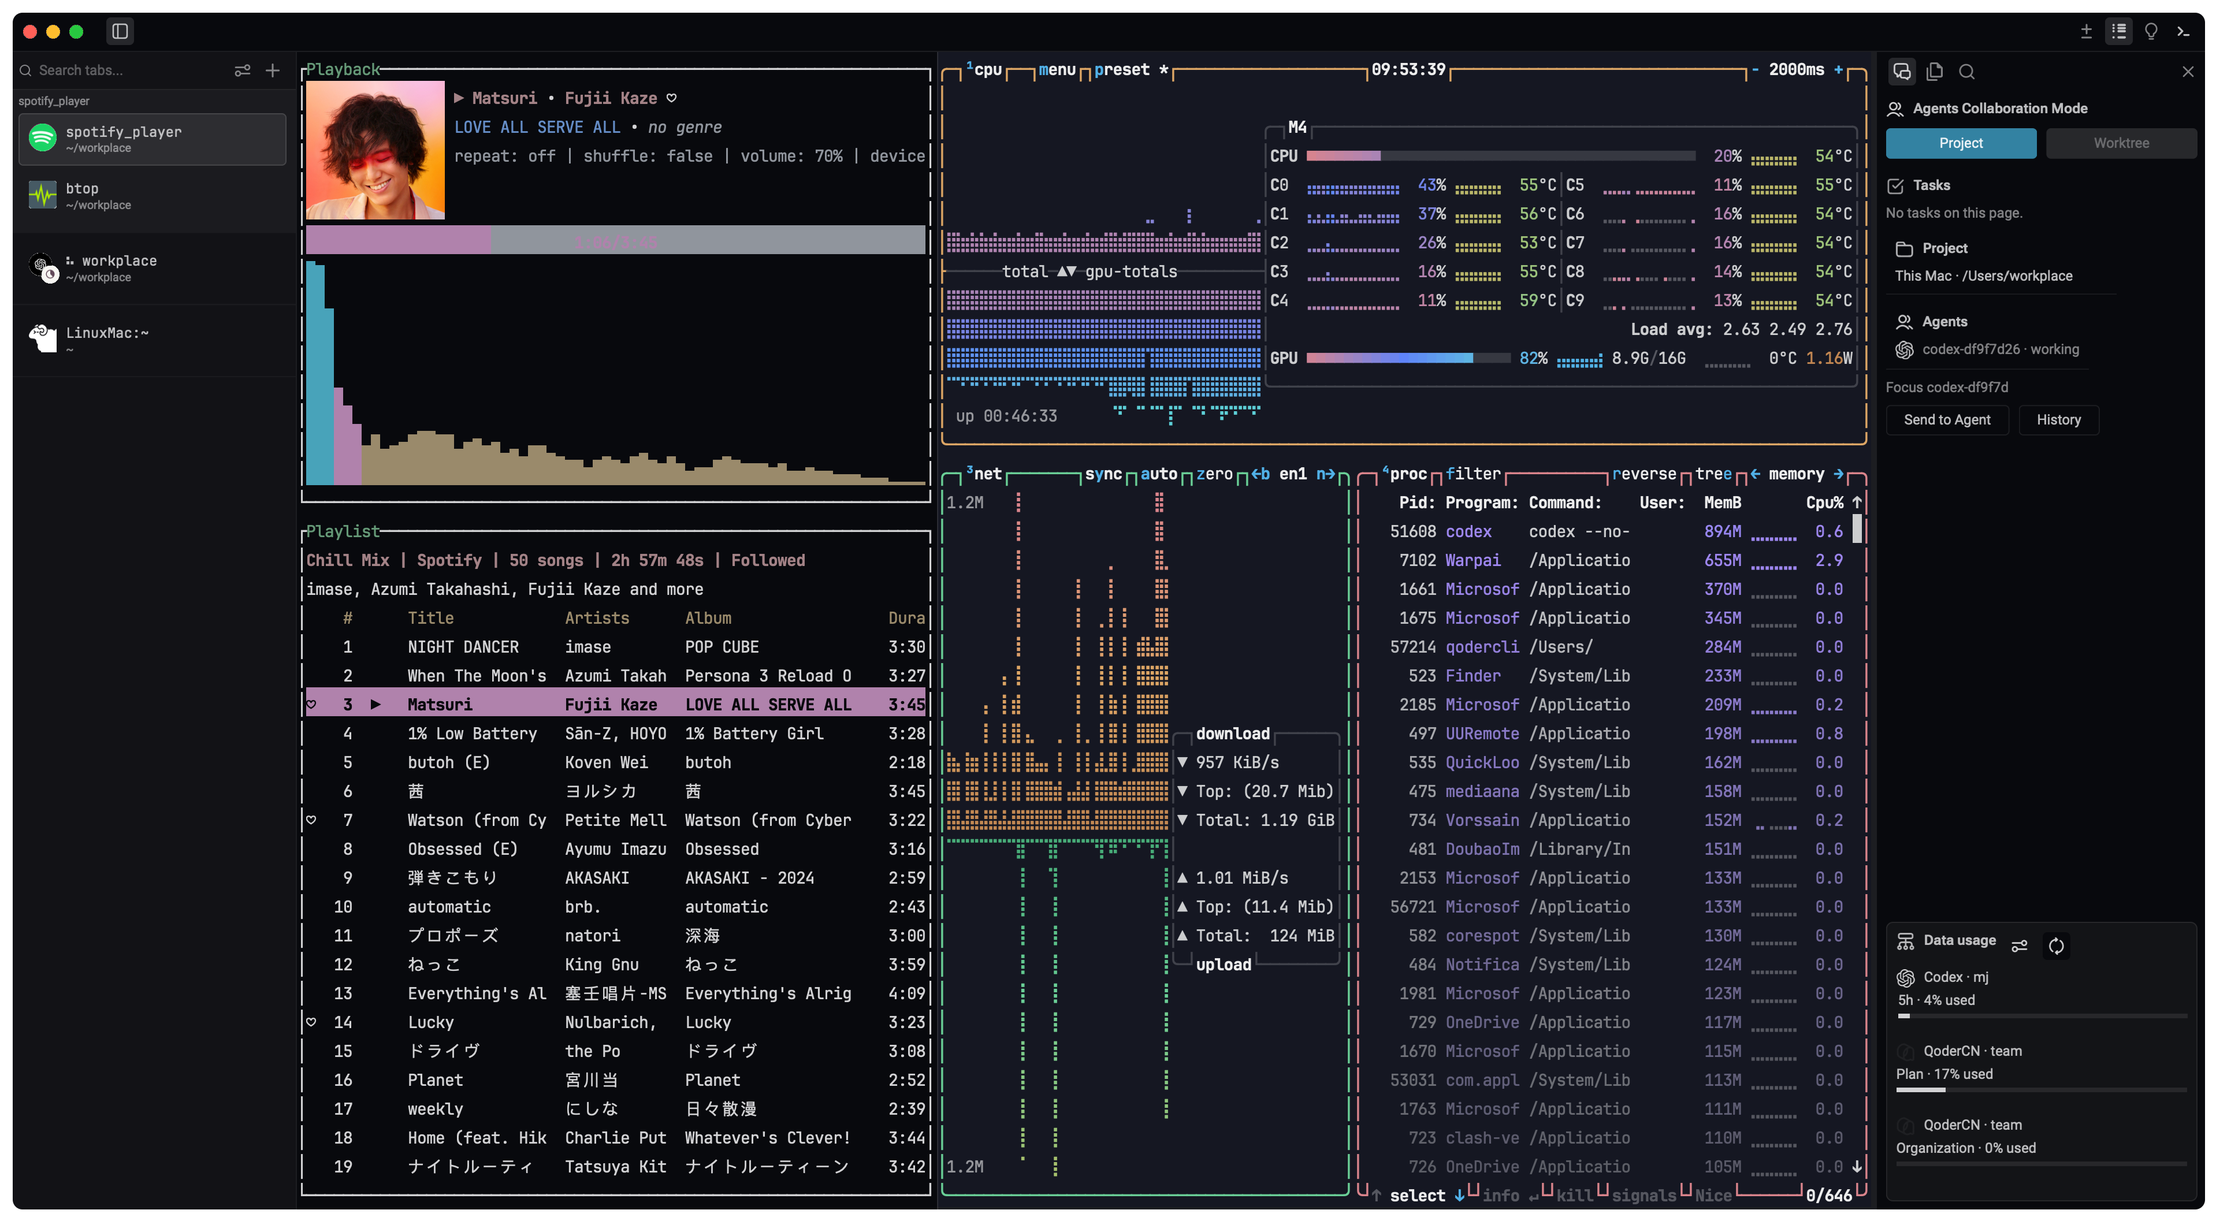
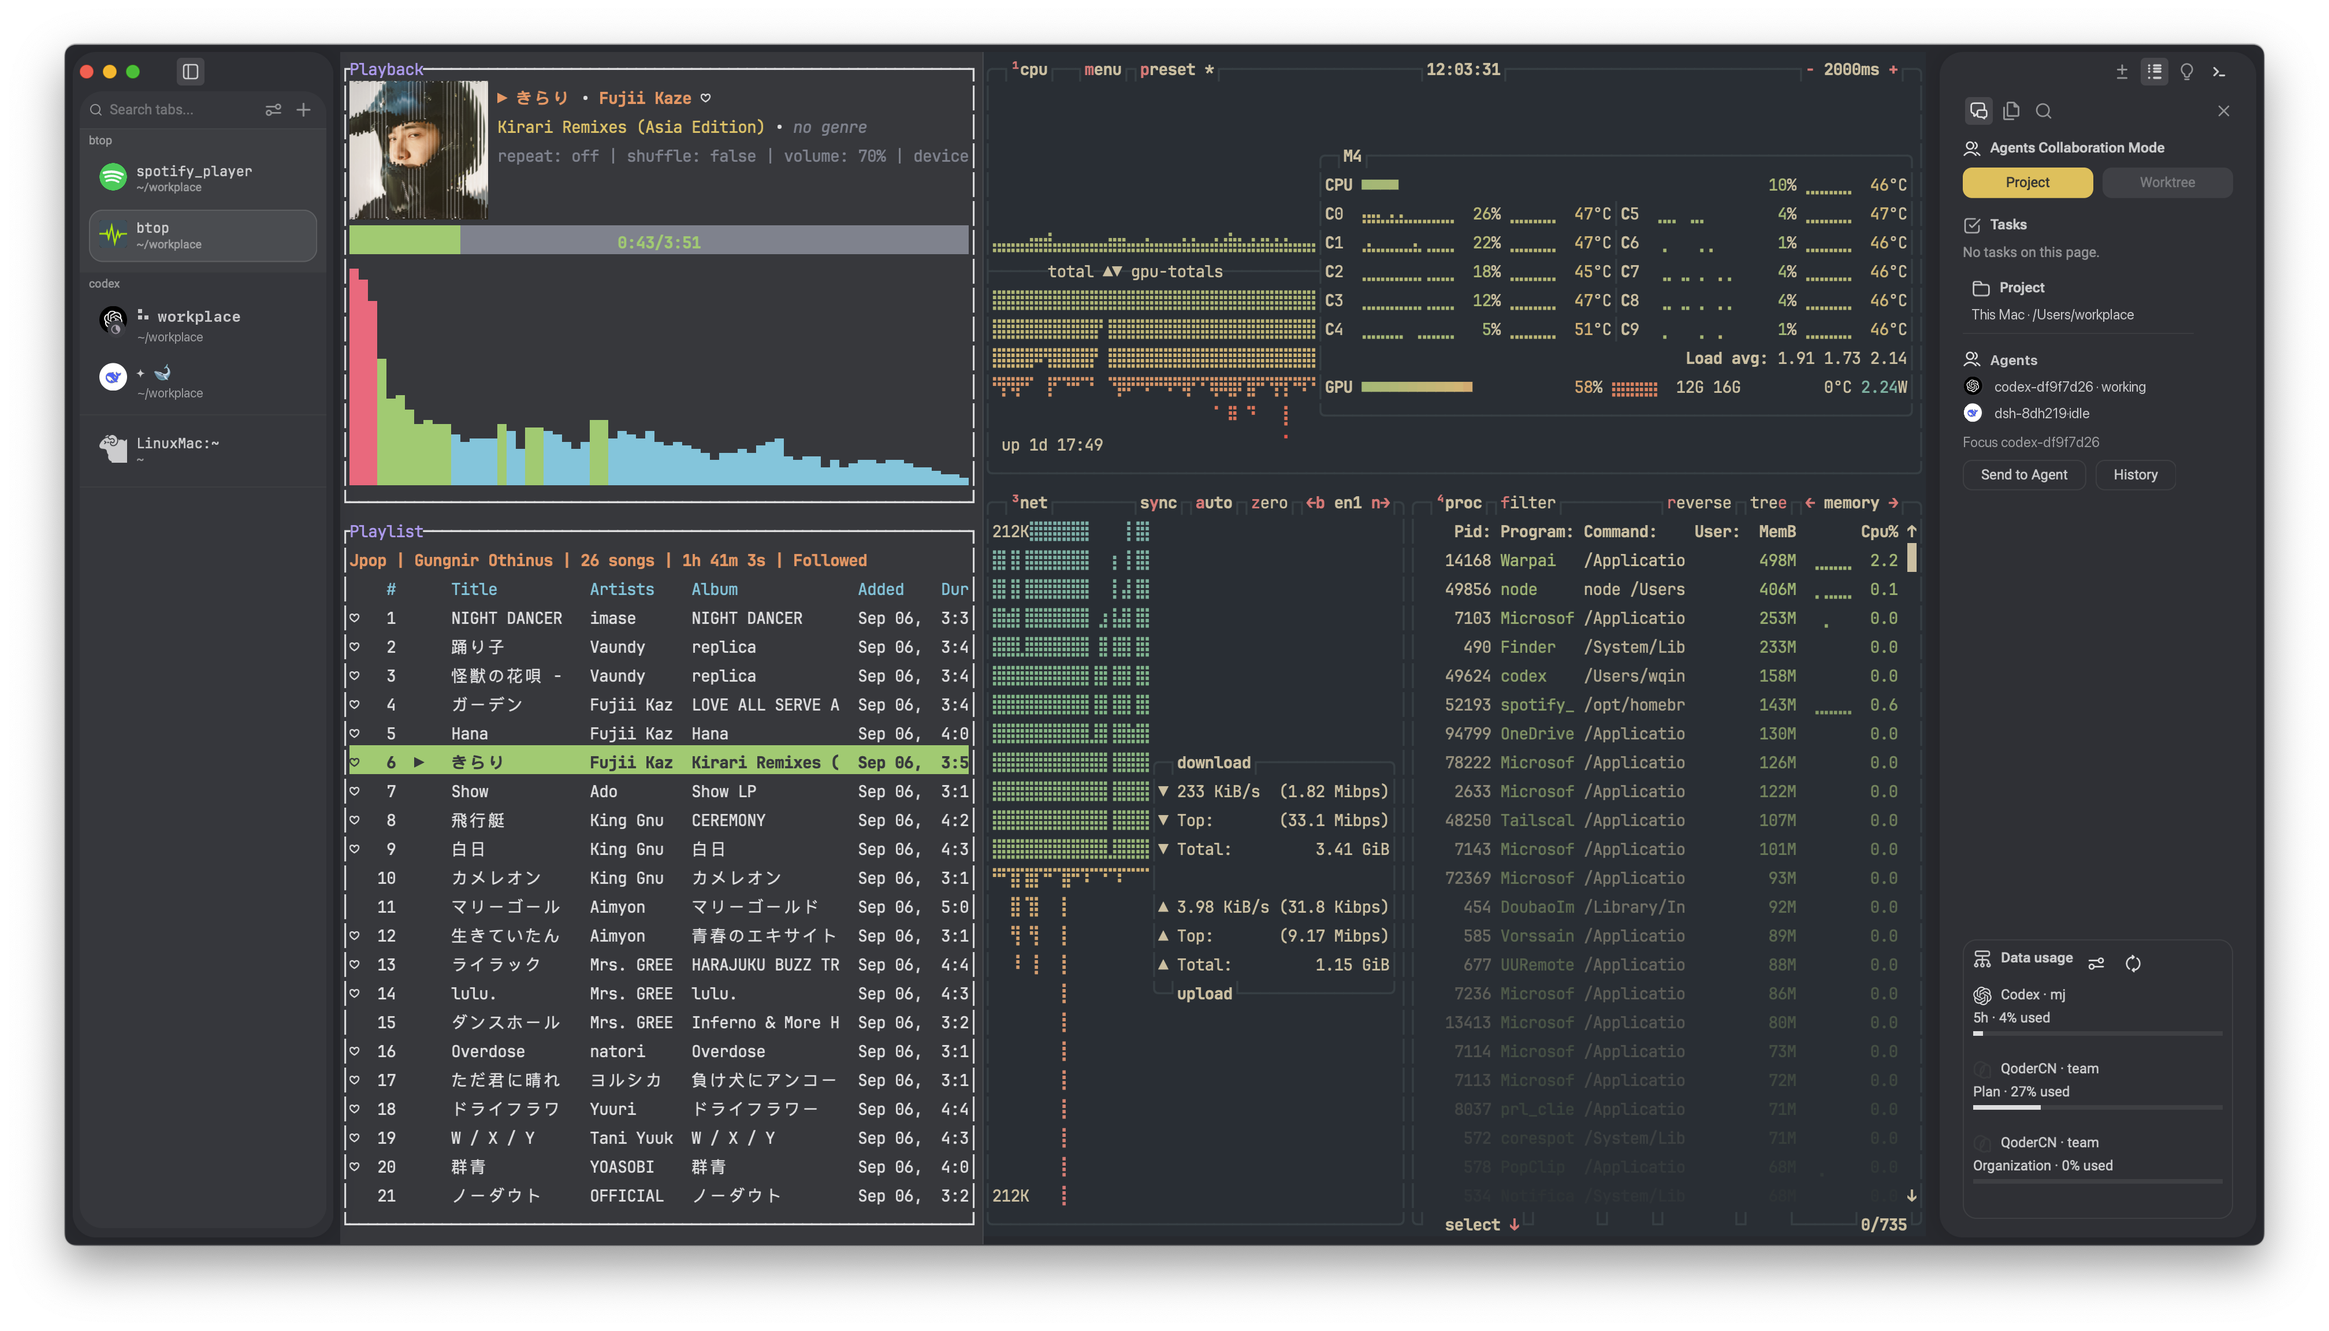
Refresh themed website screenshots and remove compatibility notices

diff --git a/index.html b/index.html
@@ -812,17 +812,10 @@ description: "The agent-native, local-first collaboration terminal. Featuring is
   <span class="cloud-cta">Explore Comparison Matrix <span aria-hidden="true">&#8594;</span></span>
 </a>
 
-<section class="cloud-teaser" aria-label="Companion compatibility">
-  <div>
-<h2><strong>Companion compatibility: overwrite-install 6.0.0</strong></h2>
-<p><strong>Companion is only for SSH and WSL; ordinary local terminals need no Companion installation or update. Companion versions across Warpai 1.8.6.1 are not interchangeable. Install Companion 6.0.0 over the existing remote installation using the same SSH account, then reconnect. Update local WSL through its settings installer.</strong></p>
-  </div>
-</section>
-
 <section class="end" id="install">
   <div class="end-preview" aria-hidden="true">
-    <img class="workspace-shot-light" src="{{ '/assets/images/warpai-hero-showcase.png' | relative_url }}" alt="" width="3836" height="2114" loading="lazy" decoding="async">
-    <img class="workspace-shot-dark" src="{{ '/assets/images/warpai-hero-showcase-dark.png' | relative_url }}" alt="" width="3836" height="2114" loading="lazy" decoding="async">
+    <img class="workspace-shot-light" src="{{ '/assets/images/warpai-hero-showcase.png' | relative_url }}" alt="" width="4032" height="2304" loading="lazy" decoding="async">
+    <img class="workspace-shot-dark" src="{{ '/assets/images/warpai-hero-showcase-dark.png' | relative_url }}" alt="" width="4032" height="2304" loading="lazy" decoding="async">
   </div>
   <div class="in">
     <h2>Give them somewhere to live.</h2>

diff --git a/zh/index.html b/zh/index.html
@@ -812,17 +812,10 @@ description: "专为多 Agent 打造的本地优先原生协同终端。支持 G
   <span class="cloud-cta">查看完整对比矩阵 <span aria-hidden="true">&#8594;</span></span>
 </a>
 
-<section class="cloud-teaser" aria-label="Companion 兼容性">
-  <div>
-<h2><strong>Companion 兼容性：必须覆盖安装 6.0.0</strong></h2>
-<p><strong>Companion 只用于 SSH 和 WSL，普通本地终端无需安装或更新。Warpai 1.8.6.1 前后的 Companion 不通用。请以原 SSH 账号覆盖安装新版 Companion 6.0.0，然后重新连接；本地 WSL 通过设置中的安装器更新。</strong></p>
-  </div>
-</section>
-
 <section class="end" id="install">
   <div class="end-preview" aria-hidden="true">
-    <img class="workspace-shot-light" src="{{ '/assets/images/warpai-hero-showcase.png' | relative_url }}" alt="" width="3836" height="2114" loading="lazy" decoding="async">
-    <img class="workspace-shot-dark" src="{{ '/assets/images/warpai-hero-showcase-dark.png' | relative_url }}" alt="" width="3836" height="2114" loading="lazy" decoding="async">
+    <img class="workspace-shot-light" src="{{ '/assets/images/warpai-hero-showcase.png' | relative_url }}" alt="" width="4032" height="2304" loading="lazy" decoding="async">
+    <img class="workspace-shot-dark" src="{{ '/assets/images/warpai-hero-showcase-dark.png' | relative_url }}" alt="" width="4032" height="2304" loading="lazy" decoding="async">
   </div>
   <div class="in">
     <h2>给你的 Agent 一个真正的家。</h2>

diff --git a/MEMORY.md b/MEMORY.md
@@ -12,26 +12,18 @@
 
 - Current documentation targets Warpai 1.8.6.1 / Companion 6.0.0. Companion is
   only required for SSH remote hosts and local WSL; ordinary native local
-  terminals need no Companion installation/update. Keep the cross-version
-  overwrite-install warning in prominent bold headings in both languages.
+  terminals need no Companion installation/update. Keep the current Companion
+  version in setup instructions; the owner removed the repeated
+  compatibility notices from homepages and installation guides on Nov6.
 - Task handoffs belong in feature, collaboration usage and MCP reference docs,
   describing immutable pins, current source/review checks, scoped sharing and
   normal execution authorization. Keep implementation tweaks out of user docs.
 
-- **Dark screenshot correction (2026-10-31)**: Ink mode uses the selectively
-  inverted `assets/images/warpai-hero-showcase-dark.png` on both homepages and
-  both Overviews; paper retains the original. Restore the original traffic
-  lights, Spotify/Monitor/Codex sidebar icons and album cover; all other pixels
-  match the approved inverted preview. This is a derived marketing image,
-  not a native dark-theme capture. Shared CSS follows `data-mode` immediately.
-
-- **Workspace screenshot (2026-10-31)**: Owner-supplied
-  `warpai-window-clean-original-resolution.png` (3836 × 2114) replaces both hero
-  asset copies, synchronized with main's bilingual READMEs. Both Overview pages
-  show the complete capture with matching captions. Both homepage download
-  sections use a decorative right-side CSS crop, edge masks and a one-time
-  IntersectionObserver blur reveal; mobile stacks it below the copy. Reduced
-  motion/no JavaScript keeps it static. Scope and QA: docs/SCREENSHOT-REFRESH.md.
+- **Workspace screenshots (2026-11-06)**: Use the owner-approved locally edited
+  native light/dark PNGs at 4032 × 2304, shared byte-for-byte with main's bilingual
+  READMEs. Do not regenerate or resize. Both Overviews and both homepage download
+  previews retain ink/paper selection; homepage keeps its CSS crop/fade/reveal.
+  Source hashes and acceptance: docs/SCREENSHOT-REFRESH.md.
 
 - **Warpai 1.8.1 download sync (2026-10-31)**: Both homepages, strings/footer,
   install and SSH/WSL guides target the public 1.8.1 installers; Companion remains

diff --git a/docs/index.md b/docs/index.md
@@ -13,8 +13,8 @@ Welcome to the official documentation for **Warpai** — the local-first, privac
 Warpai elevates independent CLI Agent sessions into first-class units of work. For software engineering, Warpai provides a disciplined **Git Worktree Coding Mode** to develop features concurrently in isolated branches with automated peer reviews. For cross-domain and non-coding workflows, Warpai delivers an omnidirectional **Project Mode**, breaking rigid hierarchies so all agents freely exchange messages and tasks across scientific research, visual design, quant finance, and patent compliance.
 
 <figure class="docs-figure">
-  <img class="workspace-shot-light" src="{{ '/docs/images/warpai-hero-showcase.png' | relative_url }}" alt="Warpai workspace with vertical tabs, Spotify and btop split terminals, and the Agent collaboration panel" width="100%">
-  <img class="workspace-shot-dark" src="{{ '/assets/images/warpai-hero-showcase-dark.png' | relative_url }}" alt="Warpai workspace with vertical tabs, Spotify and btop split terminals, and the Agent collaboration panel" width="100%">
+  <img class="workspace-shot-light" src="{{ '/docs/images/warpai-hero-showcase.png' | relative_url }}" alt="Warpai workspace with vertical tabs, Spotify and btop split terminals, and the Agent collaboration panel" width="4032" height="2304">
+  <img class="workspace-shot-dark" src="{{ '/assets/images/warpai-hero-showcase-dark.png' | relative_url }}" alt="Warpai workspace with vertical tabs, Spotify and btop split terminals, and the Agent collaboration panel" width="4032" height="2304">
   <figcaption>Warpai workspace: vertical tabs on the left, Spotify and btop in split terminal panes, and Agent collaboration with provider usage on the right.</figcaption>
 </figure>
 

diff --git a/zh/docs/index.md b/zh/docs/index.md
@@ -14,8 +14,8 @@ next_title: 安装指南
 Warpai 将独立的 CLI Agent 会话提升为第一公民工作单元。针对代码工程，Warpai 提供严格的 **Git Worktree 并发编码模式**，支持在物理隔离的分支中并行开发不同功能并执行自动化对等评审；针对泛行业与非 Coding 场景，重磅提供 **Project 全向协同模式**，打破单一指挥链，让所有 Agent 自由互通消息与任务，在科研论文、视觉设计、量化金融、专利法务等场景中高效攻坚。
 
 <figure class="docs-figure">
-  <img class="workspace-shot-light" src="{{ '/docs/images/warpai-hero-showcase.png' | relative_url }}" alt="Warpai 工作空间：垂直标签栏、Spotify 与 btop 分屏终端，以及 Agent 协同面板" width="100%">
-  <img class="workspace-shot-dark" src="{{ '/assets/images/warpai-hero-showcase-dark.png' | relative_url }}" alt="Warpai 工作空间：垂直标签栏、Spotify 与 btop 分屏终端，以及 Agent 协同面板" width="100%">
+  <img class="workspace-shot-light" src="{{ '/docs/images/warpai-hero-showcase.png' | relative_url }}" alt="Warpai 工作空间：垂直标签栏、Spotify 与 btop 分屏终端，以及 Agent 协同面板" width="4032" height="2304">
+  <img class="workspace-shot-dark" src="{{ '/assets/images/warpai-hero-showcase-dark.png' | relative_url }}" alt="Warpai 工作空间：垂直标签栏、Spotify 与 btop 分屏终端，以及 Agent 协同面板" width="4032" height="2304">
   <figcaption>Warpai 工作空间：左侧垂直标签栏，中间 Spotify 与 btop 分屏终端，右侧 Agent 协同面板与服务商用量。</figcaption>
 </figure>
 

diff --git a/docs/SCREENSHOT-REFRESH.md b/docs/SCREENSHOT-REFRESH.md
@@ -1,5 +1,28 @@
 # Workspace screenshot refresh
 
+## Current refresh (2026-11-06)
+
+- Use the owner-approved locally edited light and dark PNGs, both 4032 × 2304.
+  Copy them byte-for-byte; do not regenerate, resize, invert, or crop the files.
+- Replace both light asset copies and the dark asset. Both language Overviews
+  and homepage download previews must select them using the existing ink/paper
+  theme. Keep the homepage fade/reveal and full Overview image unchanged.
+- Main's English and Chinese READMEs select the same light/dark pair with a
+  native HTML picture element. Keep provenance synchronized across branches.
+- Remove the complete Companion compatibility teaser from both homepages and
+  the repeated notice from bilingual installation guides at the owner's request;
+  retain current downloads and setup steps.
+- Acceptance: verify PNG dimensions and source SHA-256, bilingual image paths,
+  theme changes, desktop/mobile image loading and layout, and the GitHub Pages
+  production build. Preserve unrelated application code and user changes.
+
+Approved source SHA-256 (also recorded in main's docs/images/README.md):
+
[2 lines of base64/hex data omitted]
+
+The sections below record the previous refresh and its verification.
+
 ## Scope and source
 
 Use the owner-provided `warpai-window-clean-original-resolution.png` unchanged

diff --git a/docs/ssh-installation.md b/docs/ssh-installation.md
@@ -10,16 +10,6 @@ next_url: /docs/wsl-installation.html
 next_title: Windows WSL Installation & Setup
 ---
 
-## **Companion compatibility: overwrite-install 6.0.0**
-
-**Companion is only for SSH remote hosts and local WSL environments. Ordinary
-local terminals do not require Companion installation or updates.
-Companion versions used before and from Warpai 1.8.6.1 are not interchangeable.
-Warpai 1.8.6.1 requires Companion 6.0.0. Overwrite-install the matching new Companion
-on each remote host under the same SSH account, then reconnect. Update local WSL
-through its settings installer. Keep old desktops paired with their matching
-older Companion; do not downgrade an updated data store.**
-
 
 
 This guide covers the complete SSH remote setup for Warpai 1.8.6.1: installing and enabling OpenSSH Server on Linux, macOS, and Windows, switching the Windows SSH login shell from CMD to PowerShell, installing Warpai Companion, configuring per-Agent MCP on the remote account, and running the same multi-Agent workflow as a local project.

diff --git a/docs/wsl-installation.md b/docs/wsl-installation.md
@@ -10,16 +10,6 @@ next_url: /docs/cli-agents.html
 next_title: 20+ CLI Agents Guide
 ---
 
-## **Companion compatibility: overwrite-install 6.0.0**
-
-**Companion is only for SSH remote hosts and local WSL environments. Ordinary
-local terminals do not require Companion installation or updates.
-Companion versions used before and from Warpai 1.8.6.1 are not interchangeable.
-Warpai 1.8.6.1 requires Companion 6.0.0. Overwrite-install the matching new Companion
-on each remote host under the same SSH account, then reconnect. Update local WSL
-through its settings installer. Keep old desktops paired with their matching
-older Companion; do not downgrade an updated data store.**
-
 
 
 This guide covers Warpai 1.8.6.1 with WSL 2 on Windows: enabling the required Windows features, installing a Linux distribution, opening the WSL session in Warpai, installing the dedicated WSL Companion, configuring per-Agent MCP inside the distribution, and running the same multi-Agent workflow as a local project.

diff --git a/docs/install.md b/docs/install.md
@@ -10,16 +10,6 @@ next_url: /docs/quick-start.html
 next_title: Quick Start (5 Min)
 ---
 
-## **Companion compatibility: overwrite-install 6.0.0**
-
-**Companion is only for SSH remote hosts and local WSL environments. Ordinary
-local terminals do not require Companion installation or updates.
-Companion versions used before and from Warpai 1.8.6.1 are not interchangeable.
-Warpai 1.8.6.1 requires Companion 6.0.0. Overwrite-install the matching new Companion
-on each remote host under the same SSH account, then reconnect. Update local WSL
-through its settings installer. Keep old desktops paired with their matching
-older Companion; do not downgrade an updated data store.**
-
 
 
 Warpai 1.8.6.1 is a native desktop application for **macOS**, **Windows**, and **Linux**. Linux desktop packages are available for x64 and ARM64. For remote **Linux**, **macOS**, and **Windows** hosts and Windows **WSL 2**, use the standalone **Warpai Companion**.

diff --git a/zh/docs/ssh-installation.md b/zh/docs/ssh-installation.md
@@ -11,14 +11,6 @@ next_url: /docs/wsl-installation.html
 next_title: Windows WSL 安装与配置
 ---
 
-## **Companion 兼容性：必须覆盖安装 6.0.0**
-
-**Companion 只用于 SSH 远端和本地 WSL 环境；普通本地终端无需安装或更新 Companion。
-Warpai 1.8.6.1 前后的 Companion 不通用。Warpai 1.8.6.1 必须配套 Companion 6.0.0。
-请在每台远程主机上以原 SSH 账号覆盖安装新版 Companion，然后重新连接。本地 WSL
-请通过设置中的安装器更新专用组件。旧版桌面端继续配套旧版 Companion，
-不支持降级已更新的数据存储。**
-
 
 
 本文档覆盖 Warpai 1.8.6.1 的完整 SSH 远程配置：在 Linux、macOS 和 Windows 上安装并启用 OpenSSH Server，将 Windows SSH 登录 Shell 从 CMD 切换为 PowerShell，安装 Warpai Companion，按 Agent 配置远端 MCP，并让远程项目获得与本地一致的多 Agent 协作体验。

diff --git a/zh/docs/wsl-installation.md b/zh/docs/wsl-installation.md
@@ -11,14 +11,6 @@ next_url: /docs/cli-agents.html
 next_title: 20+ 款 CLI Agent 配置
 ---
 
-## **Companion 兼容性：必须覆盖安装 6.0.0**
-
-**Companion 只用于 SSH 远端和本地 WSL 环境；普通本地终端无需安装或更新 Companion。
-Warpai 1.8.6.1 前后的 Companion 不通用。Warpai 1.8.6.1 必须配套 Companion 6.0.0。
-请在每台远程主机上以原 SSH 账号覆盖安装新版 Companion，然后重新连接。本地 WSL
-请通过设置中的安装器更新专用组件。旧版桌面端继续配套旧版 Companion，
-不支持降级已更新的数据存储。**
-
 
 
 本文介绍 Warpai 1.8.6.1 在 Windows 上使用 WSL 2 的完整流程：启用所需的 Windows 功能、安装 Linux 发行版、在 Warpai 中打开 WSL 会话、安装专用的 WSL Companion、在发行版内部配置各 Agent 的 MCP，并获得与本地项目一致的多 Agent 协同体验。

diff --git a/zh/docs/install.md b/zh/docs/install.md
@@ -11,14 +11,6 @@ next_url: /docs/quick-start.html
 next_title: 快速上手 (5分钟)
 ---
 
-## **Companion 兼容性：必须覆盖安装 6.0.0**
-
-**Companion 只用于 SSH 远端和本地 WSL 环境；普通本地终端无需安装或更新 Companion。
-Warpai 1.8.6.1 前后的 Companion 不通用。Warpai 1.8.6.1 必须配套 Companion 6.0.0。
-请在每台远程主机上以原 SSH 账号覆盖安装新版 Companion，然后重新连接。本地 WSL
-请通过设置中的安装器更新专用组件。旧版桌面端继续配套旧版 Companion，
-不支持降级已更新的数据存储。**
-
 
 
 Warpai 1.8.6.1 是一款原生桌面应用程序，支持 **macOS（Apple 芯片）**、**Windows（x64）** 与 **Linux**。Linux 桌面端提供 x64 和 ARM64 安装包。连接 SSH 远端 **Linux**、**macOS**、**Windows** 主机及 Windows **WSL 2**，请使用独立的 **Warpai Companion**。
